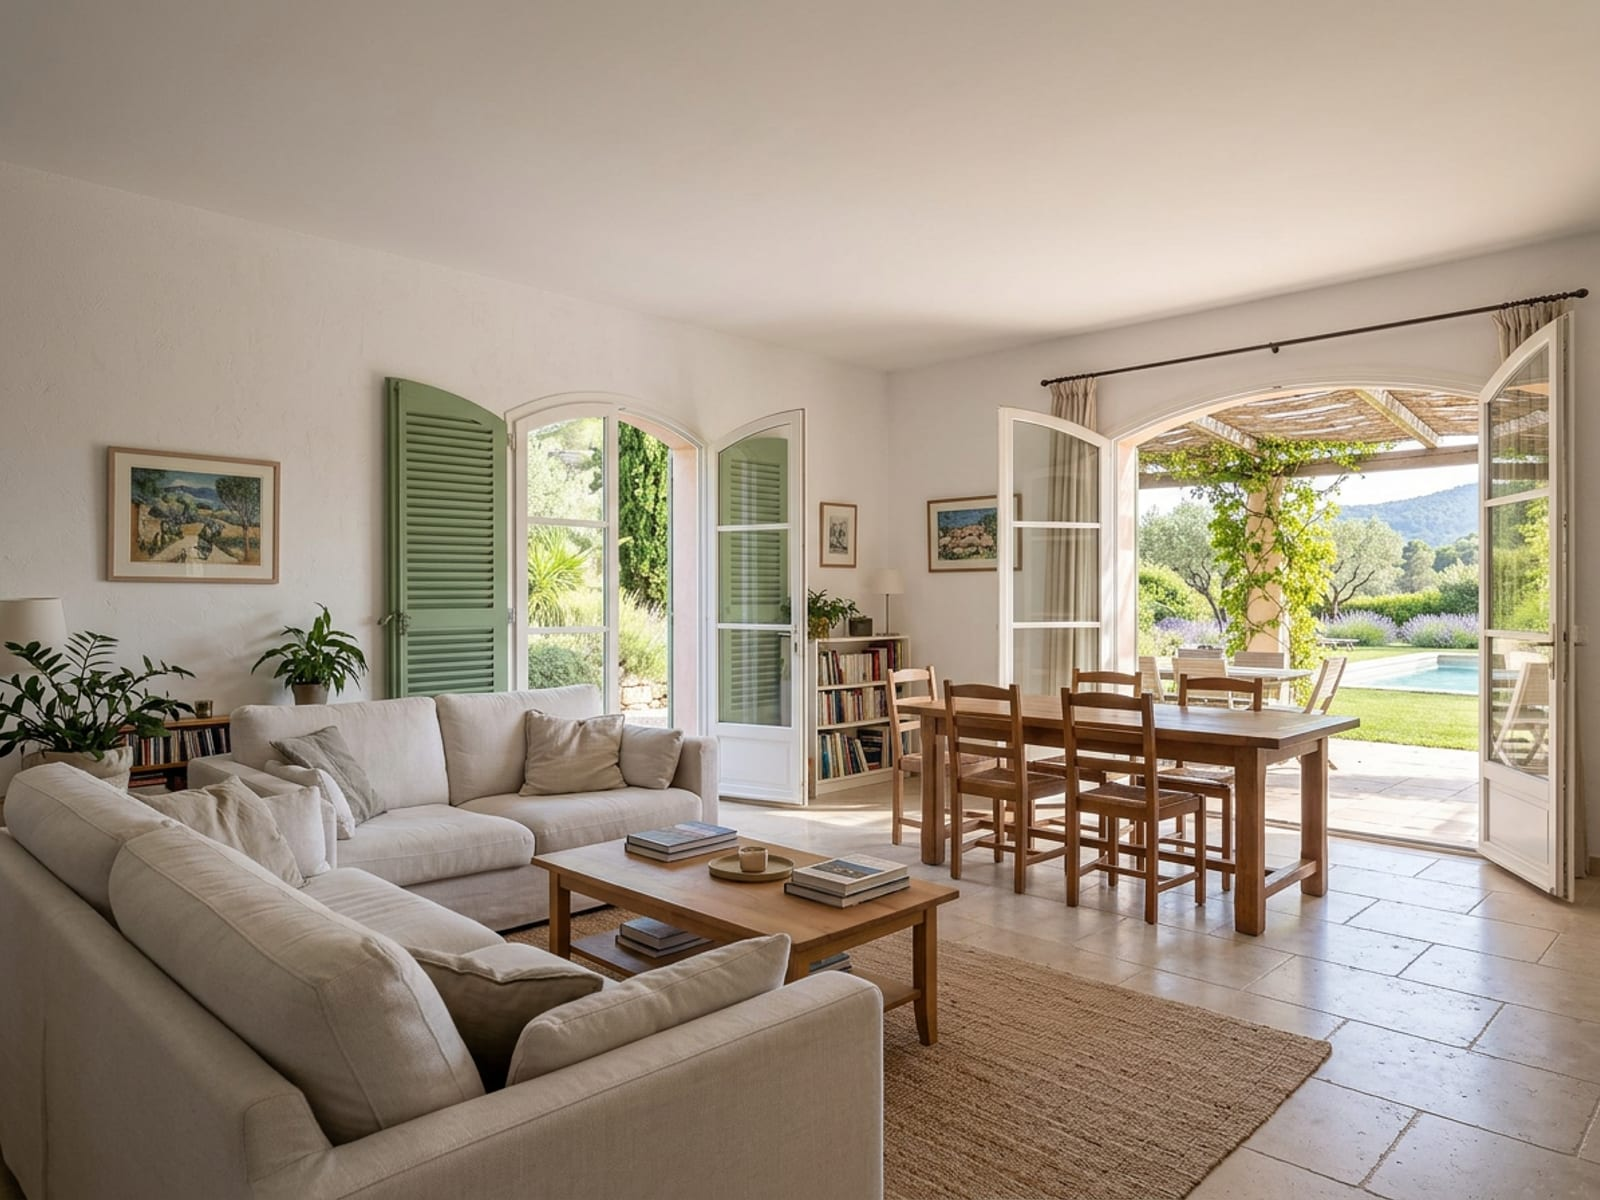
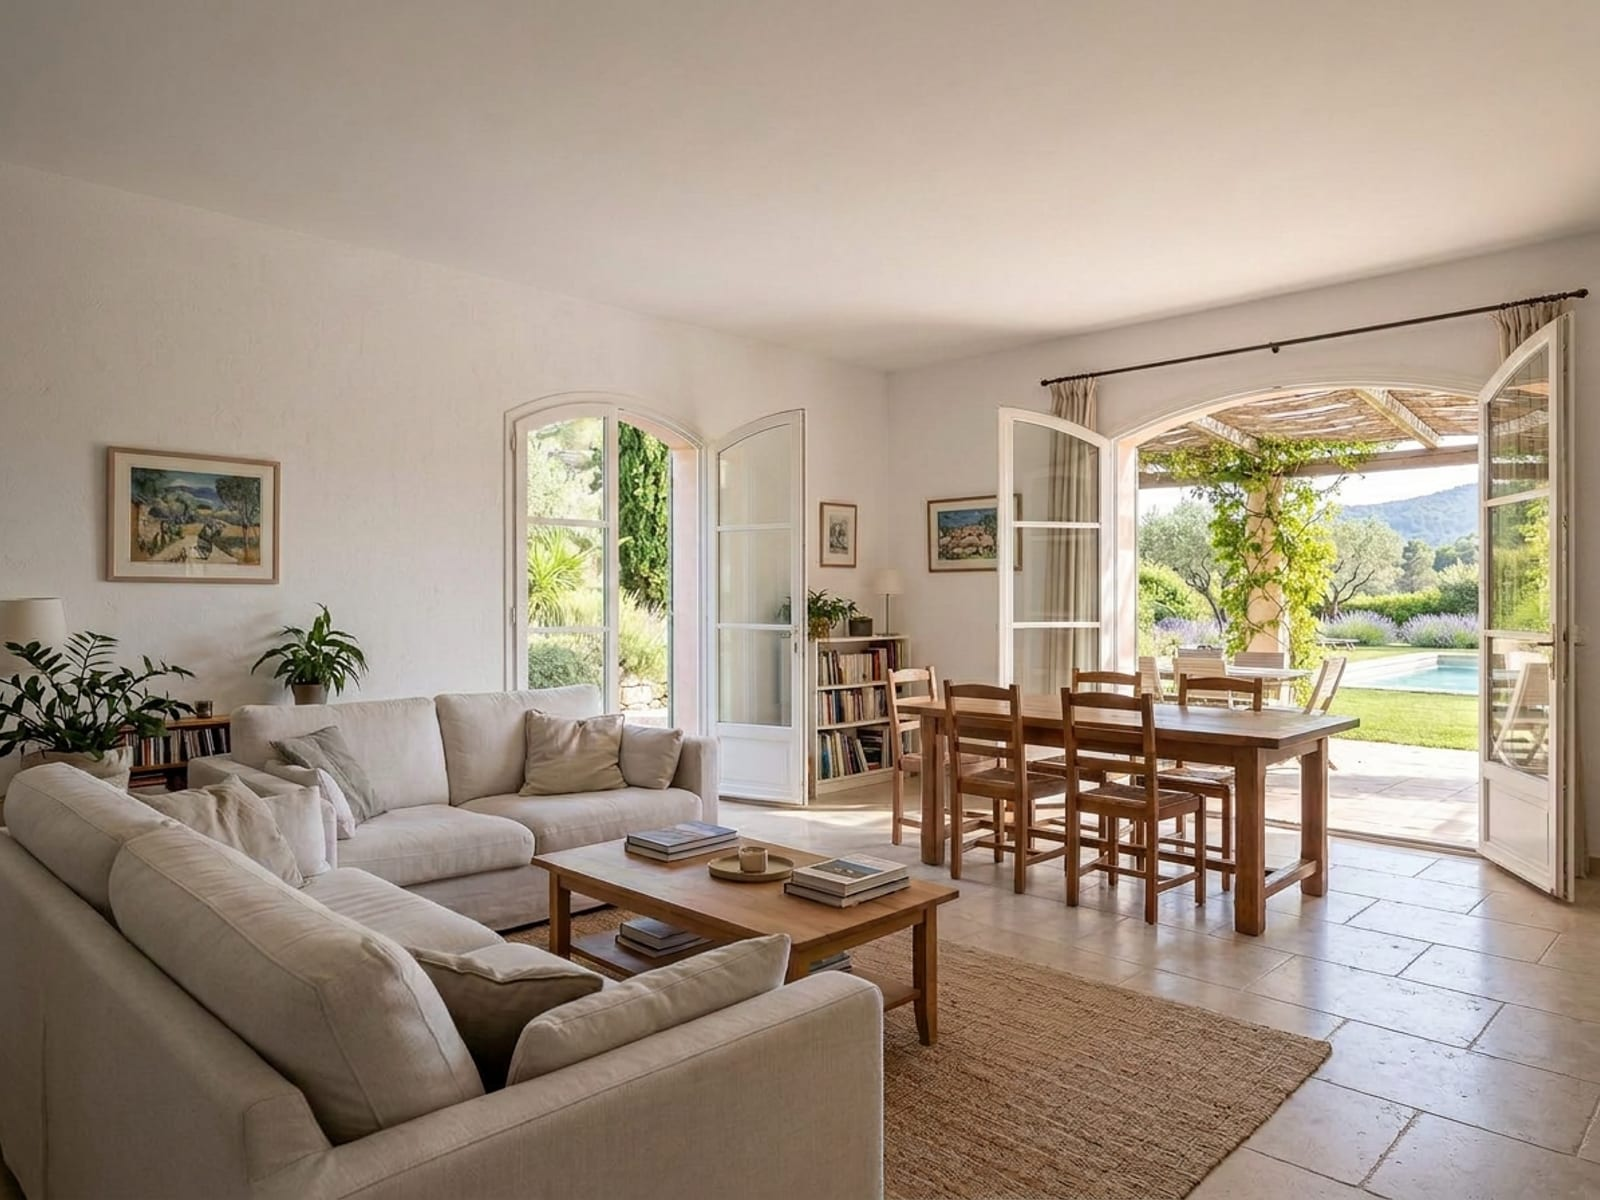
Mission 155 — les vues extérieures des six mandats : leurs jeux se branchent
Six vues générées avec Runway le 14/11/2026 (jardin de Vence et de Saint-Paul,
balcon de Juan-les-Pins et de Villeneuve-Loubet, terrasse de La Colle-sur-Loup,
piscine de Valbonne) ; le séjour et la cuisine de La Colle-sur-Loup remplacés
(des volets apparaissaient dans la pièce). Les six jeux sont complets et
s'affichent d'eux-mêmes ; registre à jour.

diff --git a/docs/DEMO.md b/docs/DEMO.md
@@ -144,16 +144,16 @@ façade), et un extérieur qui est bien celui de la façade.
 Une ligne par jeu déposé, exigée par les tests : le dossier, la source, l'auteur, la licence et
 la date de téléchargement (JJ/MM/AAAA).
 
-| Dossier                                 | Bien                                              | Source                                                                                                                                                                                                                                                        | Auteur                 | Licence                                                                                                                  | Téléchargé le |
-| --------------------------------------- | ------------------------------------------------- | ------------------------------------------------------------------------------------------------------------------------------------------------------------------------------------------------------------------------------------------------------------- | ---------------------- | ------------------------------------------------------------------------------------------------------------------------ | ------------- |
-| `mandat-mougins-villa/`                 | la villa de M. Lefebvre, Mougins                  | Images générées par IA avec Runway (compte Start-academia), d'après la fiche photo ci-dessous : façade le 13/11/2026, autres vues le 14/11/2026 (séjour, cuisine, chambre, salle de bains et jardin régénérés le 14/11/2026)                                  | Start Academy (Runway) | Conditions d'usage de Runway (« Usage rights », https://help.runwayml.com/hc/en-us/articles/18927776141715-Usage-rights) | 14/11/2026    |
-| `mandat-antibes-appartement/`           | l'appartement de Mme Ferrand, Antibes             | Images générées par IA avec Runway (compte Start-academia), d'après la fiche photo ci-dessous : façade le 13/11/2026, autres vues le 14/11/2026 (séjour, terrasse et salle de bains régénérés le 14/11/2026, la salle de bains une seconde fois le même jour) | Start Academy (Runway) | Conditions d'usage de Runway (« Usage rights », https://help.runwayml.com/hc/en-us/articles/18927776141715-Usage-rights) | 14/11/2026    |
-| `mandat-vence-maison/`                  | la maison de M. et Mme Lopez, Vence               | Images générées par IA avec Runway (compte Start-academia), d'après la fiche photo ci-dessous, le 14/11/2026 ; la vue extérieure qui manque arrive dans un second envoi, le jeu ne s'affiche qu'une fois complet                                              | Start Academy (Runway) | Conditions d'usage de Runway (« Usage rights », https://help.runwayml.com/hc/en-us/articles/18927776141715-Usage-rights) | 14/11/2026    |
-| `mandat-juan-les-pins-appartement/`     | l'appartement de M. et Mme Delmas, Juan-les-Pins  | Images générées par IA avec Runway (compte Start-academia), d'après la fiche photo ci-dessous, le 14/11/2026 ; la vue extérieure qui manque arrive dans un second envoi, le jeu ne s'affiche qu'une fois complet                                              | Start Academy (Runway) | Conditions d'usage de Runway (« Usage rights », https://help.runwayml.com/hc/en-us/articles/18927776141715-Usage-rights) | 14/11/2026    |
-| `mandat-villeneuve-loubet-appartement/` | l'appartement de Mme Perrin, Villeneuve-Loubet    | Images générées par IA avec Runway (compte Start-academia), d'après la fiche photo ci-dessous, le 14/11/2026 ; la vue extérieure qui manque arrive dans un second envoi, le jeu ne s'affiche qu'une fois complet                                              | Start Academy (Runway) | Conditions d'usage de Runway (« Usage rights », https://help.runwayml.com/hc/en-us/articles/18927776141715-Usage-rights) | 14/11/2026    |
-| `mandat-la-colle-sur-loup-maison/`      | la maison de M. et Mme Garnier, La Colle-sur-Loup | Images générées par IA avec Runway (compte Start-academia), d'après la fiche photo ci-dessous, le 14/11/2026 ; la vue extérieure qui manque arrive dans un second envoi, le jeu ne s'affiche qu'une fois complet                                              | Start Academy (Runway) | Conditions d'usage de Runway (« Usage rights », https://help.runwayml.com/hc/en-us/articles/18927776141715-Usage-rights) | 14/11/2026    |
-| `mandat-saint-paul-de-vence-maison/`    | la maison de Mme Navarro, Saint-Paul-de-Vence     | Images générées par IA avec Runway (compte Start-academia), d'après la fiche photo ci-dessous, le 14/11/2026 ; la vue extérieure qui manque arrive dans un second envoi, le jeu ne s'affiche qu'une fois complet                                              | Start Academy (Runway) | Conditions d'usage de Runway (« Usage rights », https://help.runwayml.com/hc/en-us/articles/18927776141715-Usage-rights) | 14/11/2026    |
-| `mandat-valbonne-villa/`                | la villa de M. et Mme Castel, Valbonne            | Images générées par IA avec Runway (compte Start-academia), d'après la fiche photo ci-dessous, le 14/11/2026 ; la vue extérieure qui manque arrive dans un second envoi, le jeu ne s'affiche qu'une fois complet                                              | Start Academy (Runway) | Conditions d'usage de Runway (« Usage rights », https://help.runwayml.com/hc/en-us/articles/18927776141715-Usage-rights) | 14/11/2026    |
+| Dossier                                 | Bien                                              | Source                                                                                                                                                                                                                                                                    | Auteur                 | Licence                                                                                                                  | Téléchargé le |
+| --------------------------------------- | ------------------------------------------------- | ------------------------------------------------------------------------------------------------------------------------------------------------------------------------------------------------------------------------------------------------------------------------- | ---------------------- | ------------------------------------------------------------------------------------------------------------------------ | ------------- |
+| `mandat-mougins-villa/`                 | la villa de M. Lefebvre, Mougins                  | Images générées par IA avec Runway (compte Start-academia), d'après la fiche photo ci-dessous : façade le 13/11/2026, autres vues le 14/11/2026 (séjour, cuisine, chambre, salle de bains et jardin régénérés le 14/11/2026)                                              | Start Academy (Runway) | Conditions d'usage de Runway (« Usage rights », https://help.runwayml.com/hc/en-us/articles/18927776141715-Usage-rights) | 14/11/2026    |
+| `mandat-antibes-appartement/`           | l'appartement de Mme Ferrand, Antibes             | Images générées par IA avec Runway (compte Start-academia), d'après la fiche photo ci-dessous : façade le 13/11/2026, autres vues le 14/11/2026 (séjour, terrasse et salle de bains régénérés le 14/11/2026, la salle de bains une seconde fois le même jour)             | Start Academy (Runway) | Conditions d'usage de Runway (« Usage rights », https://help.runwayml.com/hc/en-us/articles/18927776141715-Usage-rights) | 14/11/2026    |
+| `mandat-vence-maison/`                  | la maison de M. et Mme Lopez, Vence               | Images générées par IA avec Runway (compte Start-academia), d'après la fiche photo ci-dessous, le 14/11/2026, la vue extérieure dans un second envoi le même jour                                                                                                         | Start Academy (Runway) | Conditions d'usage de Runway (« Usage rights », https://help.runwayml.com/hc/en-us/articles/18927776141715-Usage-rights) | 14/11/2026    |
+| `mandat-juan-les-pins-appartement/`     | l'appartement de M. et Mme Delmas, Juan-les-Pins  | Images générées par IA avec Runway (compte Start-academia), d'après la fiche photo ci-dessous, le 14/11/2026, la vue extérieure dans un second envoi le même jour                                                                                                         | Start Academy (Runway) | Conditions d'usage de Runway (« Usage rights », https://help.runwayml.com/hc/en-us/articles/18927776141715-Usage-rights) | 14/11/2026    |
+| `mandat-villeneuve-loubet-appartement/` | l'appartement de Mme Perrin, Villeneuve-Loubet    | Images générées par IA avec Runway (compte Start-academia), d'après la fiche photo ci-dessous, le 14/11/2026, la vue extérieure dans un second envoi le même jour                                                                                                         | Start Academy (Runway) | Conditions d'usage de Runway (« Usage rights », https://help.runwayml.com/hc/en-us/articles/18927776141715-Usage-rights) | 14/11/2026    |
+| `mandat-la-colle-sur-loup-maison/`      | la maison de M. et Mme Garnier, La Colle-sur-Loup | Images générées par IA avec Runway (compte Start-academia), d'après la fiche photo ci-dessous, le 14/11/2026, la vue extérieure dans un second envoi le même jour ; 02-sejour et 03-cuisine remplacés le 14/11/2026 (des volets apparaissaient à l'intérieur de la pièce) | Start Academy (Runway) | Conditions d'usage de Runway (« Usage rights », https://help.runwayml.com/hc/en-us/articles/18927776141715-Usage-rights) | 14/11/2026    |
+| `mandat-saint-paul-de-vence-maison/`    | la maison de Mme Navarro, Saint-Paul-de-Vence     | Images générées par IA avec Runway (compte Start-academia), d'après la fiche photo ci-dessous, le 14/11/2026, la vue extérieure dans un second envoi le même jour                                                                                                         | Start Academy (Runway) | Conditions d'usage de Runway (« Usage rights », https://help.runwayml.com/hc/en-us/articles/18927776141715-Usage-rights) | 14/11/2026    |
+| `mandat-valbonne-villa/`                | la villa de M. et Mme Castel, Valbonne            | Images générées par IA avec Runway (compte Start-academia), d'après la fiche photo ci-dessous, le 14/11/2026, la vue extérieure dans un second envoi le même jour                                                                                                         | Start Academy (Runway) | Conditions d'usage de Runway (« Usage rights », https://help.runwayml.com/hc/en-us/articles/18927776141715-Usage-rights) | 14/11/2026    |
 
 ### Fiche — `mandat-mougins-villa` · la villa de M. Lefebvre (mandat signé)
 
